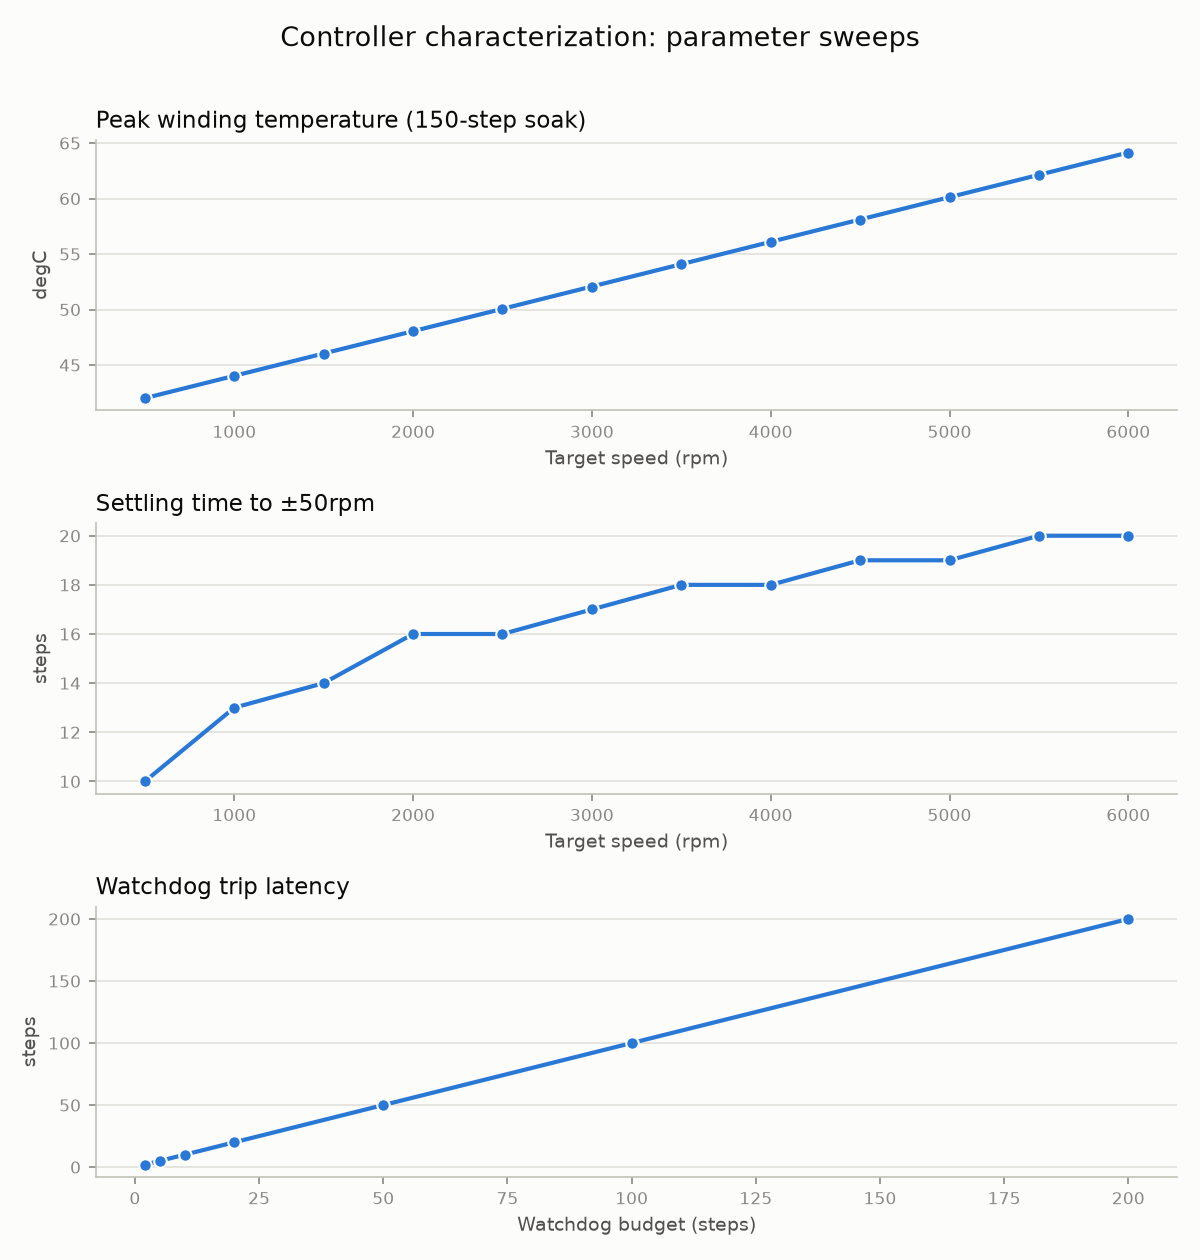
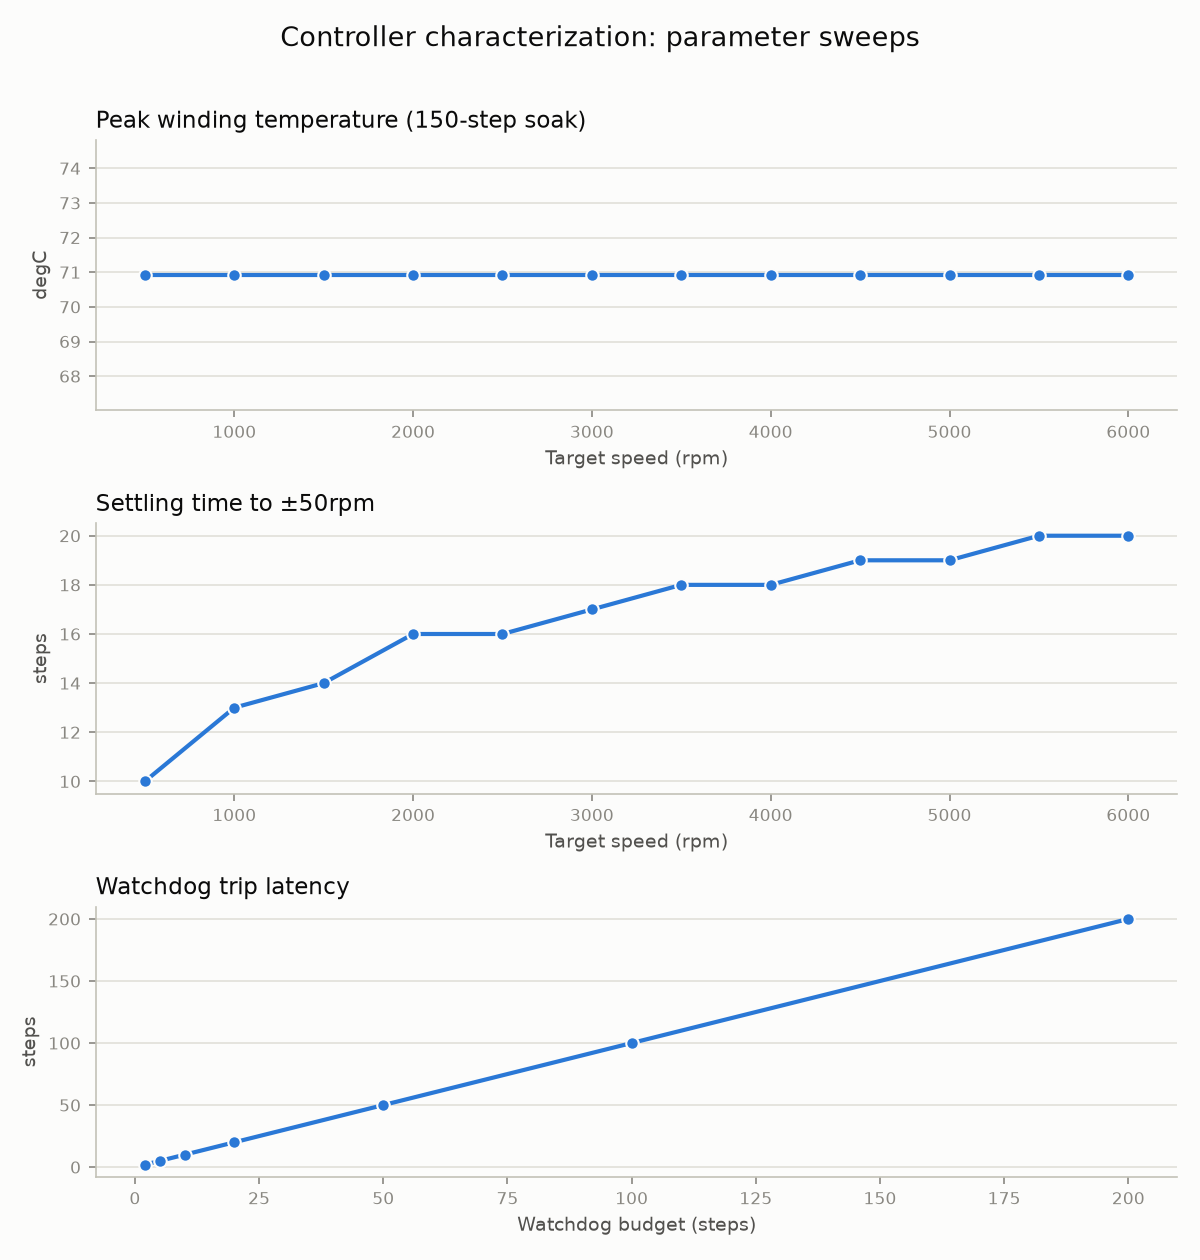
Correct the README numbers against the running code
The trip is 149.1 C, not 140: rated duty settles at 140 and the trip sits one worst-case step below the 155 C insulation limit. The characterization script never energised the drive, so its peak temperature was ambient at every speed; it now commands SET_SPEED and the chart shows the flat line V-03 predicts. Timing reworded now that the count gate re-collects the suite.

Changed region(s): [[0.0308, 0.1238, 0.9867, 0.3405], [0.925, 0.0929, 0.9558, 0.1238]]

diff --git a/scripts/characterize.py b/scripts/characterize.py
@@ -55,10 +55,14 @@ def measure_settling_steps(target_rpm: float) -> int:
 
 
 def measure_peak_temperature(target_rpm: float) -> float:
-    """Peak winding temperature over a sustained run at target_rpm."""
+    """Peak winding temperature over a sustained run at target_rpm.
+
+    Commanded through the protocol so the drive is energised. Setting
+    target_rpm and state directly left drive_enabled False, which draws no
+    current and therefore measured ambient at every speed.
+    """
     sim = MotorControllerSim()
-    sim.target_rpm = target_rpm
-    sim.state = "RUNNING"
+    assert sim.handle_command(f"SET_SPEED {target_rpm}") == "OK"
     peak = sim.temperature_c
     for _ in range(THERMAL_SOAK_STEPS):
         sim.step()

diff --git a/README.md b/README.md
@@ -28,7 +28,7 @@ HIL-style automated testing for an embedded motor controller: a deterministic si
 ## 🎯 Why this design
 
 - **Transport abstraction is the HIL upgrade path.** Tests talk to a `Transport` interface. Today it binds to an in-process simulator; replacing it with a pyserial implementation runs the *same suite* against real hardware, which is the whole point of hardware-in-the-loop test engineering.
-- **Deterministic, step-based physics.** The DUT simulation advances in discrete steps, not wall-clock time, so nothing here waits on a clock: the 105 deterministic tests run in **under three seconds**, never flake in CI, and thermal scenarios (overheat trips, stall heating) are exactly reproducible. The full suite takes about **45 seconds**, and essentially all of that is the property-based search in `test_protocol_fuzz.py` and `test_fuzz_efficacy.py` deliberately spending time looking for counterexamples. That is a budget, not slow physics.
+- **Deterministic, step-based physics.** The DUT simulation advances in discrete steps, not wall-clock time, so nothing here waits on a clock: the device tests themselves run in **about two seconds**, never flake in CI, and thermal scenarios (overheat trips, stall heating) are exactly reproducible. The 105 deterministic tests take about **seven seconds** in all, because the two test-count gates in `test_documented_counts.py` spend about four of them re-collecting the suite. The full suite takes about **45 seconds**, and essentially all of the difference is the property-based search in `test_protocol_fuzz.py`, `test_fuzz_efficacy.py` and `test_protocol_model.py` deliberately spending time looking for counterexamples. That is a budget, not slow physics.
 - **Faults are latched, like real motor drivers.** Overheat and stall trip a `FAULT` state that stops the motor, rejects speed commands, and survives cooldown until an explicit `RESET`, and the suite verifies exactly that contract.
 
 ## 🧪 Test categories
@@ -58,7 +58,7 @@ in [`docs/REFERENCES.md`](docs/REFERENCES.md).
 | Rated speed / torque | 3,000 rpm / 6.60 Nm | speed dynamics fit |
 | Rotor inertia | 3.5 kgcm² | speed dynamics fit |
 | Rated / maximum current | 5.6 A / 24.0 A | stall heating scale |
-| Thermal class | 155 (F), dT = 100 K at 40 °C ambient | 140 °C overheat trip |
+| Thermal class (series documentation, not the article sheet) | 155 (F), dT = 100 K at 40 °C ambient | rated duty settles at 140 °C; trip at 149.1 °C, the 155 °C insulation limit less one worst-case step |
 
 The speed dynamics are **fitted**: at rated torque the torque-limited
 acceleration is 6.60 / 3.5e-4 = 18,857 rad/s², so the rotor reaches rated speed
@@ -81,7 +81,7 @@ Beyond pass/fail, the harness *measures* the controller. `scripts/characterize.p
 
 | Sweep | Result |
 |---|---|
-| Peak winding temperature vs. target speed | Smooth rise 42.0 to 64.1 °C across 500 to 6000 rpm, well under the 140 °C protection limit |
+| Peak winding temperature vs. target speed | Flat at 70.9 °C across 500 to 6000 rpm after a 150-step soak at rated load. Heat follows current, which follows load, so speed alone does not heat the winding (validation finding V-03) |
 | Settling time vs. target speed | Monotonic 10 to 20 steps (1 step = 1 ms), higher setpoints take longer to reach the ±50 rpm band |
 | Watchdog trip latency vs. budget | Exact diagonal (latency = budget) across 2 to 200 steps, verifying watchdog timing precision |
 
@@ -207,6 +207,6 @@ MIT · © 2026 Mo Kamel
 
 ---
 
-Built by **Mo Kamel**, M.Eng. Mechatronic and Cyber-Physical Systems, Technische
+Built by **Mo Kamel**, M.Eng. student in Mechatronic and Cyber-Physical Systems, Technische
 Hochschule Deggendorf.
 [Portfolio](https://mkamel7.github.io) · [LinkedIn](https://linkedin.com/in/mo-kamel7)

diff --git a/docs/TEST_STRATEGY.md b/docs/TEST_STRATEGY.md
@@ -111,8 +111,8 @@ Stated because they bound what the results mean:
 - **The DUT is a simulation, partially grounded in a real device.** The
   operating envelope and protection thresholds come from the Siemens SIMOTICS
   S-1FK2 data sheet (article `1FK2105-6AF10-0SA0`): 6,000 rpm maximum speed,
-  and a 140 °C overheat trip from thermal class 155 (F) with dT = 100 K at 40 °C
-  ambient. The speed dynamics are fitted to the data sheet's rated torque and
+  and, from the series documentation, thermal class 155 (F) with dT = 100 K at
+  40 °C ambient, so rated duty settles at 140 °C and the trip sits at 149.1 °C. The speed dynamics are fitted to the data sheet's rated torque and
   rotor inertia. Nothing here validates a real driver stage, and this is not a
   validated model of that motor.
 
